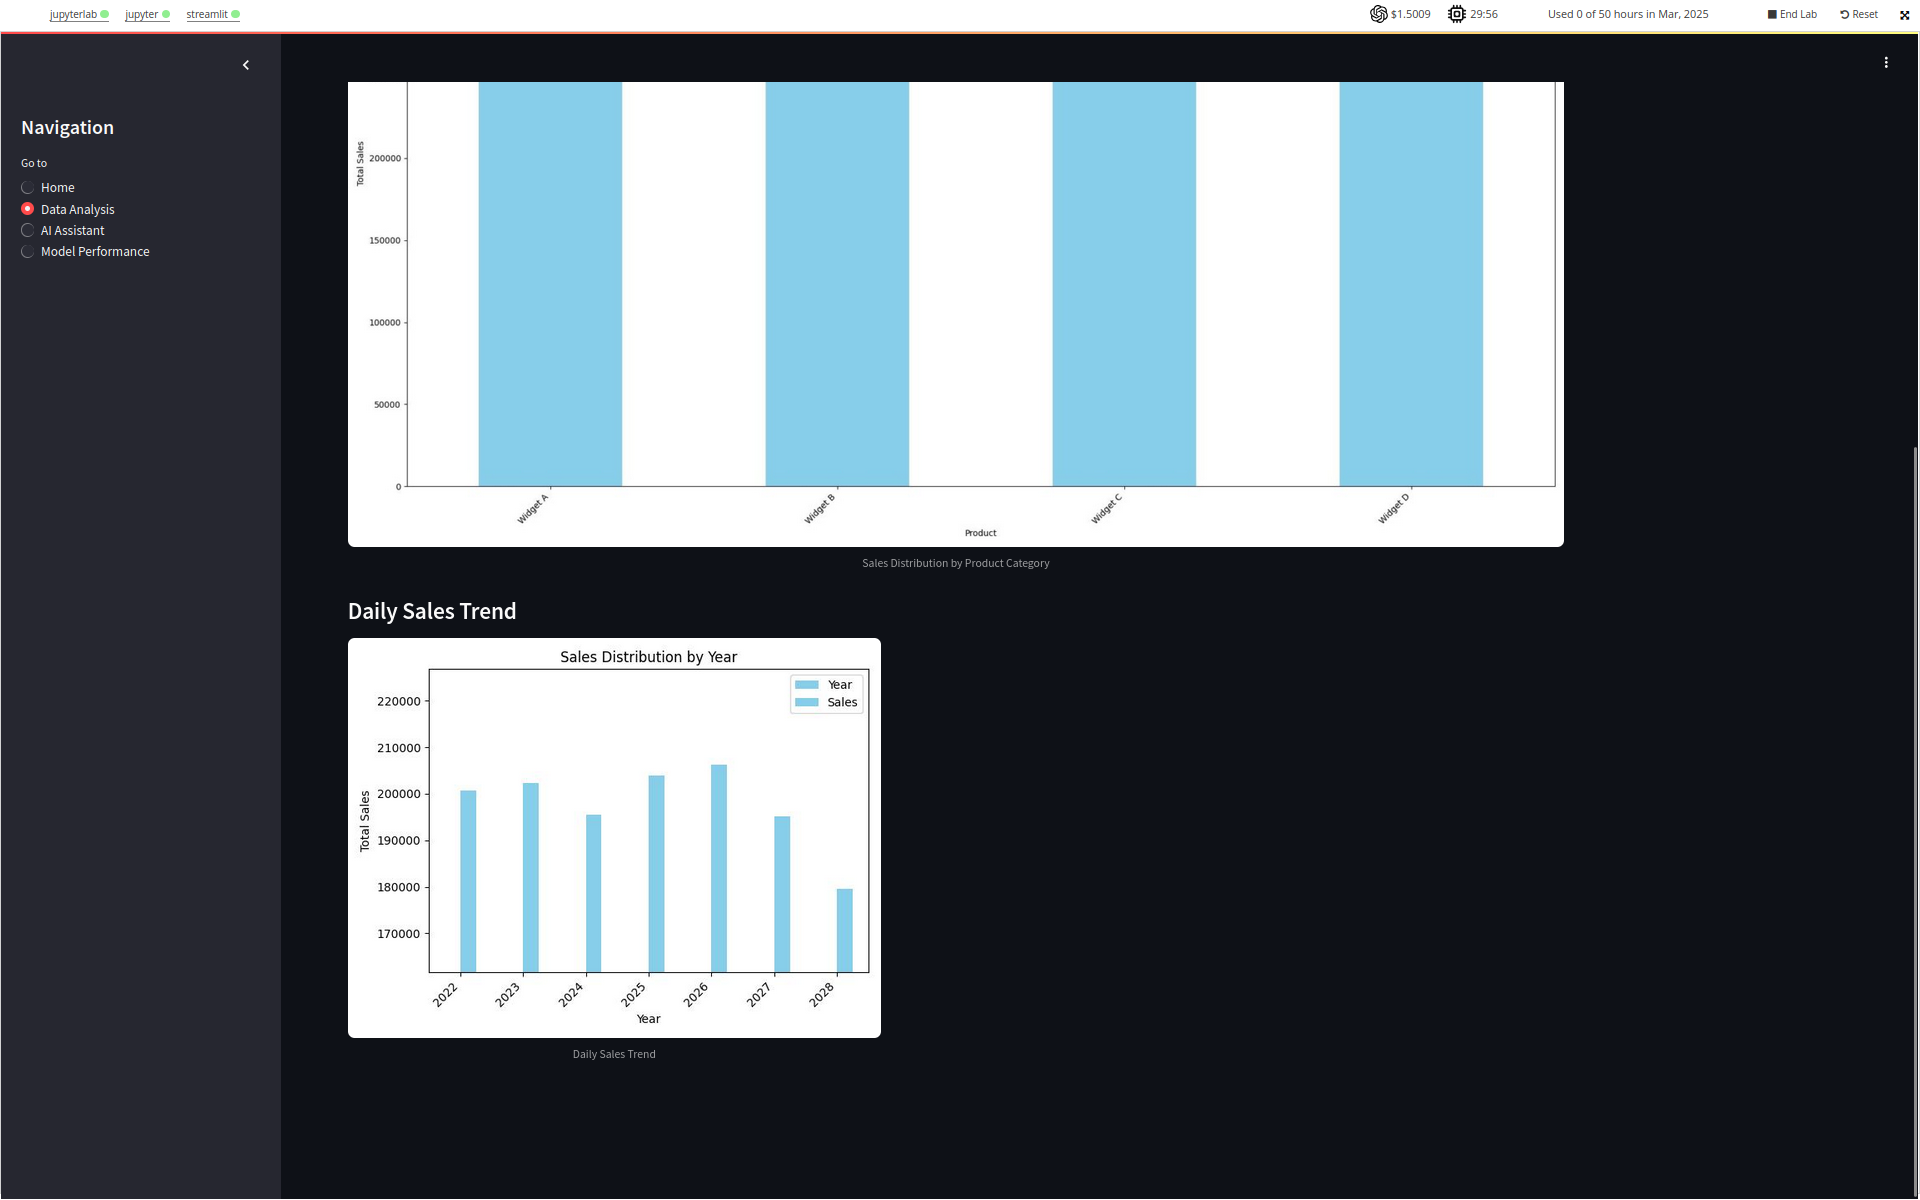
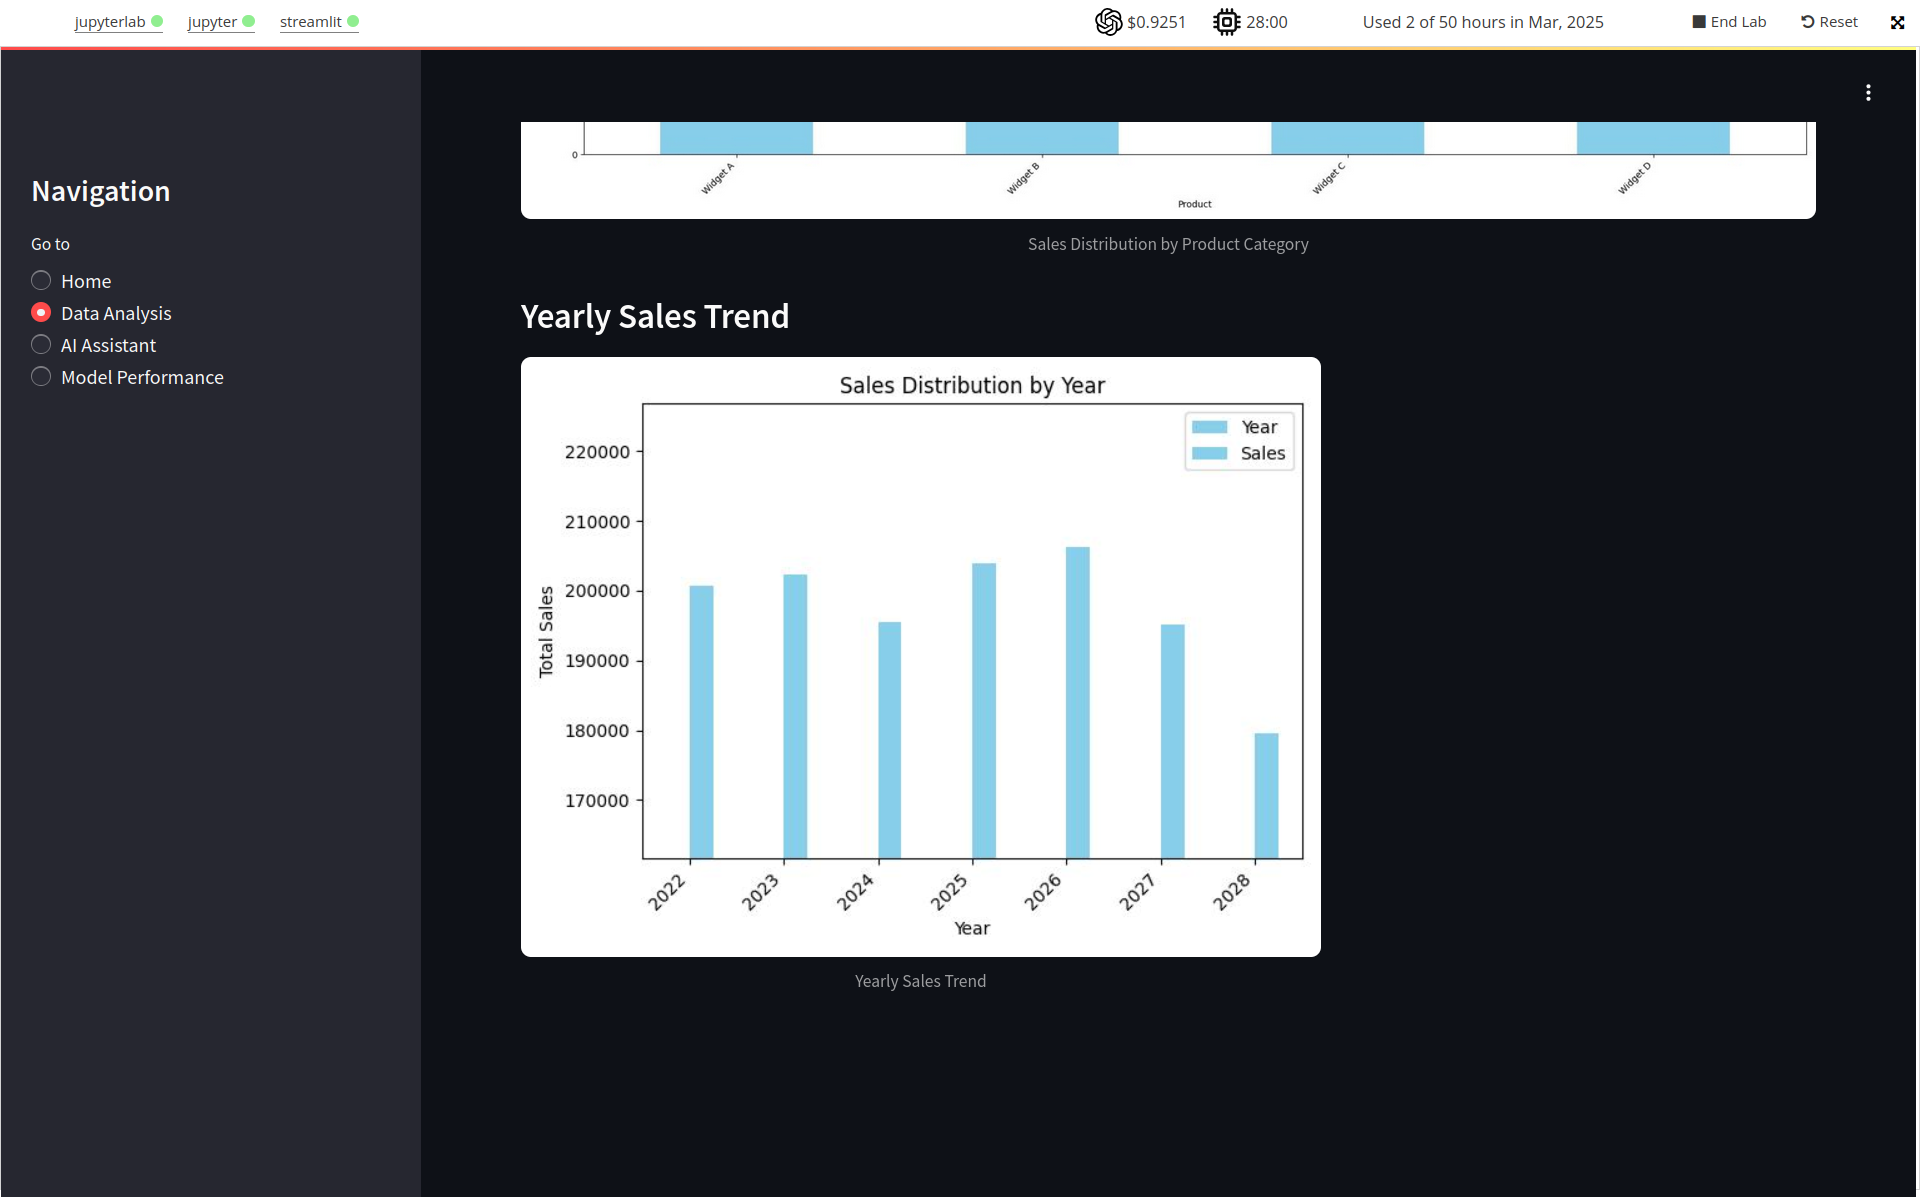
fixing typo in plots

diff --git a/scripts/insightforge_app.py b/scripts/insightforge_app.py
@@ -849,10 +849,10 @@ elif page == "Data Analysis":
       #This function makes the figure and returns the path where this figure is located
       #then this is used by st.image to load the figure
 
-    #daily Sales Trend
-    st.subheader("Daily Sales Trend")
+    #yearly sales Trend
+    st.subheader("Yearly Sales Trend")
     sales_trend_plot = plot_yearly_sales_trend(sales_data)
-    st.image(sales_trend_plot, caption="Daily Sales Trend")
+    st.image(sales_trend_plot, caption="Yearly Sales Trend")
 
 # AI Assistant Page
 elif page == "AI Assistant":
